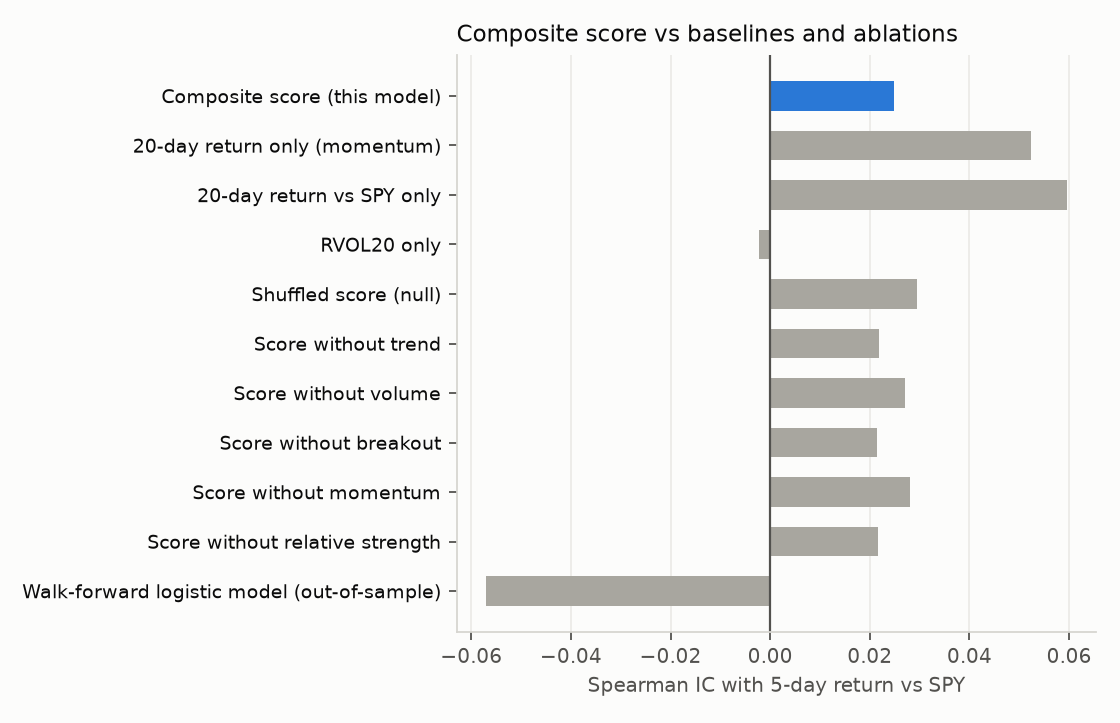
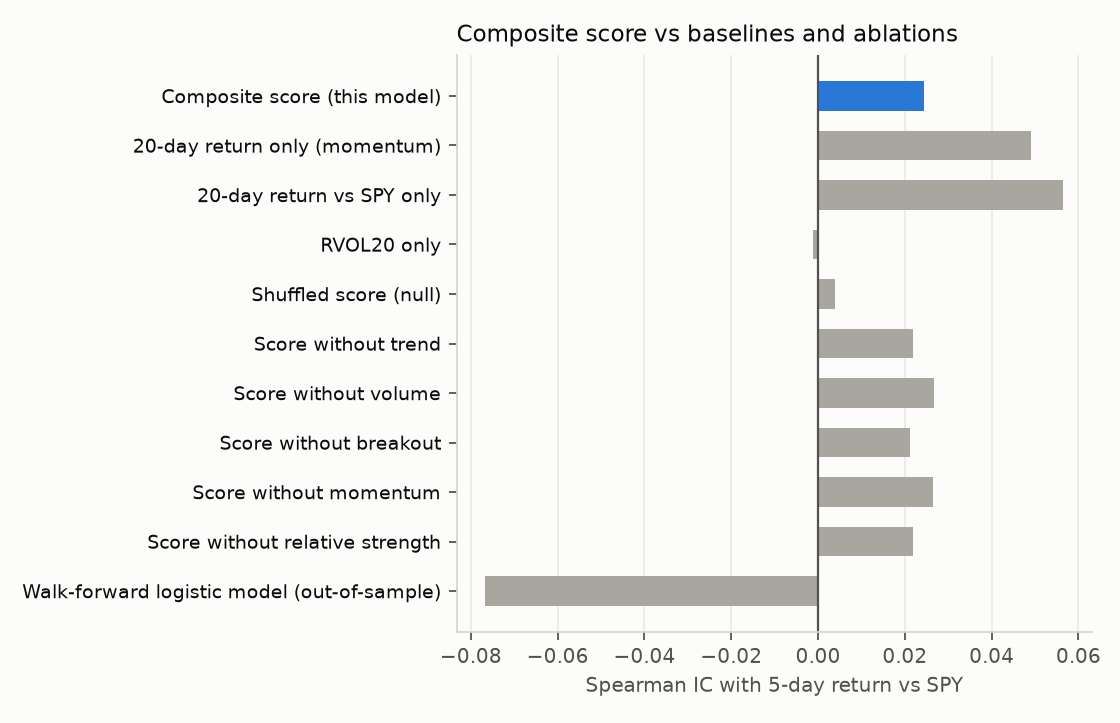
Signal evaluation for 2026-10-31

diff --git a/docs/evaluation.md b/docs/evaluation.md
@@ -6,14 +6,14 @@ performance relative to the S&P 500 over the next 5 trading days?**
 
 ## Summary
 
-*Last evaluated 2026-10-24 on 4,385 ticker-days (2021-11-22 to 2026-10-16), 5-day horizon, data: yahoo.*
+*Last evaluated 2026-10-31 on 4,395 ticker-days (2021-11-30 to 2026-10-23), 5-day horizon, data: yahoo.*
 
 | Metric | Estimate | 95% CI |
 |---|---:|---:|
-| Rank IC: score vs forward return over SPY | +0.025 | [-0.041, +0.079] |
-| Rank IC, non-overlapping windows only | -0.014 | |
-| Mean return gap: POSITIVE-or-better minus WEAK | +0.43% | [-0.58%, +1.34%] |
-| Out-of-sample AUC: hand weights vs learned weights | 0.502 vs 0.470 | |
+| Rank IC: score vs forward return over SPY | +0.024 | [-0.040, +0.080] |
+| Rank IC, non-overlapping windows only | -0.007 | |
+| Mean return gap: POSITIVE-or-better minus WEAK | +0.41% | [-0.56%, +1.34%] |
+| Out-of-sample AUC: hand weights vs learned weights | 0.501 vs 0.460 | |
 
 The 95% interval for the IC includes zero, so the data do not support a claim that the score predicts forward relative returns. That is a legitimate finding: the score is useful as a description of today's move, not as a forecast.
 
@@ -22,7 +22,7 @@ The 95% interval for the IC includes zero, so the data do not support a claim th
 ## Setup
 
 - **Universe:** ALAB, KLAC, SPCX, TSLA, VRT; benchmark SPY.
-- **Sample:** 1,230 trading days, 4,385 ticker-days with a full score.
+- **Sample:** 1,230 trading days, 4,395 ticker-days with a full score.
   Rows labelled *INSUFFICIENT DATA* (too little history, e.g. right after an IPO) are excluded.
 - **Target:** 5-day forward return minus SPY's forward return over the same days.
 - **No look-ahead:** every indicator at day *t* uses data through the close of *t* only;
@@ -37,10 +37,10 @@ The 95% interval for the IC includes zero, so the data do not support a claim th
 
 | label | n | mean | ci_lo | ci_hi | median | hit_rate |
 |---|---:|---:|---:|---:|---:|---:|
-| STRONG PRICE/VOLUME | 378 | +0.61% | -0.14% | +2.00% | +0.28% | 50.8% |
-| POSITIVE | 905 | +0.83% | +0.33% | +1.57% | +0.34% | 53.6% |
-| WATCH | 890 | +1.44% | +0.47% | +2.57% | +1.03% | 56.3% |
-| WEAK | 2,212 | +0.33% | -0.35% | +1.28% | +0.25% | 51.6% |
+| STRONG PRICE/VOLUME | 381 | +0.59% | -0.15% | +1.91% | +0.11% | 50.4% |
+| POSITIVE | 899 | +0.85% | +0.32% | +1.59% | +0.43% | 53.9% |
+| WATCH | 887 | +1.46% | +0.43% | +2.59% | +1.03% | 56.3% |
+| WEAK | 2,228 | +0.36% | -0.41% | +1.18% | +0.28% | 51.6% |
 
 ## Stability
 
@@ -50,22 +50,22 @@ The full-sample IC can hide periods where the relationship flips sign.
 
 | year | n | ic |
 |---|---:|---:|
-| 2021 | 84 | +0.052 |
-| 2022 | 753 | -0.006 |
-| 2023 | 750 | -0.074 |
+| 2021 | 69 | +0.113 |
+| 2022 | 753 | -0.004 |
+| 2023 | 750 | -0.073 |
 | 2024 | 934 | +0.067 |
 | 2025 | 1,000 | -0.008 |
-| 2026 | 864 | +0.016 |
+| 2026 | 889 | +0.006 |
 
 By ticker:
 
 | ticker | n | ic | first_date |
 |---|---:|---:|---:|
-| ALAB | 627 | +0.106 | 2024-04-18 |
-| KLAC | 1,230 | -0.122 | 2021-11-22 |
-| SPCX | 68 | -0.025 | 2026-07-14 |
-| TSLA | 1,230 | +0.033 | 2021-11-22 |
-| VRT | 1,230 | +0.036 | 2021-11-22 |
+| ALAB | 632 | +0.102 | 2024-04-18 |
+| KLAC | 1,230 | -0.120 | 2021-11-30 |
+| SPCX | 73 | -0.019 | 2026-07-14 |
+| TSLA | 1,230 | +0.039 | 2021-11-30 |
+| VRT | 1,230 | +0.032 | 2021-11-30 |
 
 ## Baselines and ablation
 
@@ -76,19 +76,19 @@ re-scores the full history with one component removed and the rest re-weighted t
 
 | signal | ic |
 |---|---:|
-| Composite score (this model) | +0.025 |
-| 20-day return only (momentum) | +0.052 |
-| 20-day return vs SPY only | +0.060 |
-| RVOL20 only | -0.002 |
-| Shuffled score (null) | +0.029 |
+| Composite score (this model) | +0.024 |
+| 20-day return only (momentum) | +0.049 |
+| 20-day return vs SPY only | +0.056 |
+| RVOL20 only | -0.001 |
+| Shuffled score (null) | +0.004 |
 
 | removed | ic | change |
 |---|---:|---:|
 | trend | +0.022 | -0.003 |
 | volume | +0.027 | +0.002 |
-| breakout | +0.022 | -0.003 |
-| momentum | +0.028 | +0.003 |
-| relative_strength | +0.022 | -0.003 |
+| breakout | +0.021 | -0.003 |
+| momentum | +0.027 | +0.002 |
+| relative_strength | +0.022 | -0.002 |
 
 A negative *change* means removing the component hurts, i.e. it was contributing.
 
@@ -99,12 +99,12 @@ differently, a logistic regression on the five component scores is refit every q
 expanding window and used only to score later dates. A 5-day gap separates
 each training cut-off from the test period so overlapping targets cannot leak.
 
-Out-of-sample period: 2022-11-22 onward, 3,629 ticker-days.
+Out-of-sample period: 2022-11-30 onward, 3,639 ticker-days.
 
 | Model | AUC (target: beats SPY) | Spearman IC |
 |---|---:|---:|
-| Hand-weighted score | 0.502 | +0.019 |
-| Walk-forward logistic regression | 0.470 | -0.057 |
+| Hand-weighted score | 0.501 | +0.019 |
+| Walk-forward logistic regression | 0.460 | -0.077 |
 
 Learning the weights from data does not beat the hand-chosen weights out of sample. With this little data, the simpler fixed-weight model is preferable.
 

diff --git a/README.md b/README.md
@@ -35,14 +35,14 @@ The project has two halves:
 ## Results
 
 <!-- EVAL:START -->
-*Last evaluated 2026-10-24 on 4,385 ticker-days (2021-11-22 to 2026-10-16), 5-day horizon, data: yahoo.*
+*Last evaluated 2026-10-31 on 4,395 ticker-days (2021-11-30 to 2026-10-23), 5-day horizon, data: yahoo.*
 
 | Metric | Estimate | 95% CI |
 |---|---:|---:|
-| Rank IC: score vs forward return over SPY | +0.025 | [-0.041, +0.079] |
-| Rank IC, non-overlapping windows only | -0.014 | |
-| Mean return gap: POSITIVE-or-better minus WEAK | +0.43% | [-0.58%, +1.34%] |
-| Out-of-sample AUC: hand weights vs learned weights | 0.502 vs 0.470 | |
+| Rank IC: score vs forward return over SPY | +0.024 | [-0.040, +0.080] |
+| Rank IC, non-overlapping windows only | -0.007 | |
+| Mean return gap: POSITIVE-or-better minus WEAK | +0.41% | [-0.56%, +1.34%] |
+| Out-of-sample AUC: hand weights vs learned weights | 0.501 vs 0.460 | |
 
 The 95% interval for the IC includes zero, so the data do not support a claim that the score predicts forward relative returns. That is a legitimate finding: the score is useful as a description of today's move, not as a forecast.
 
